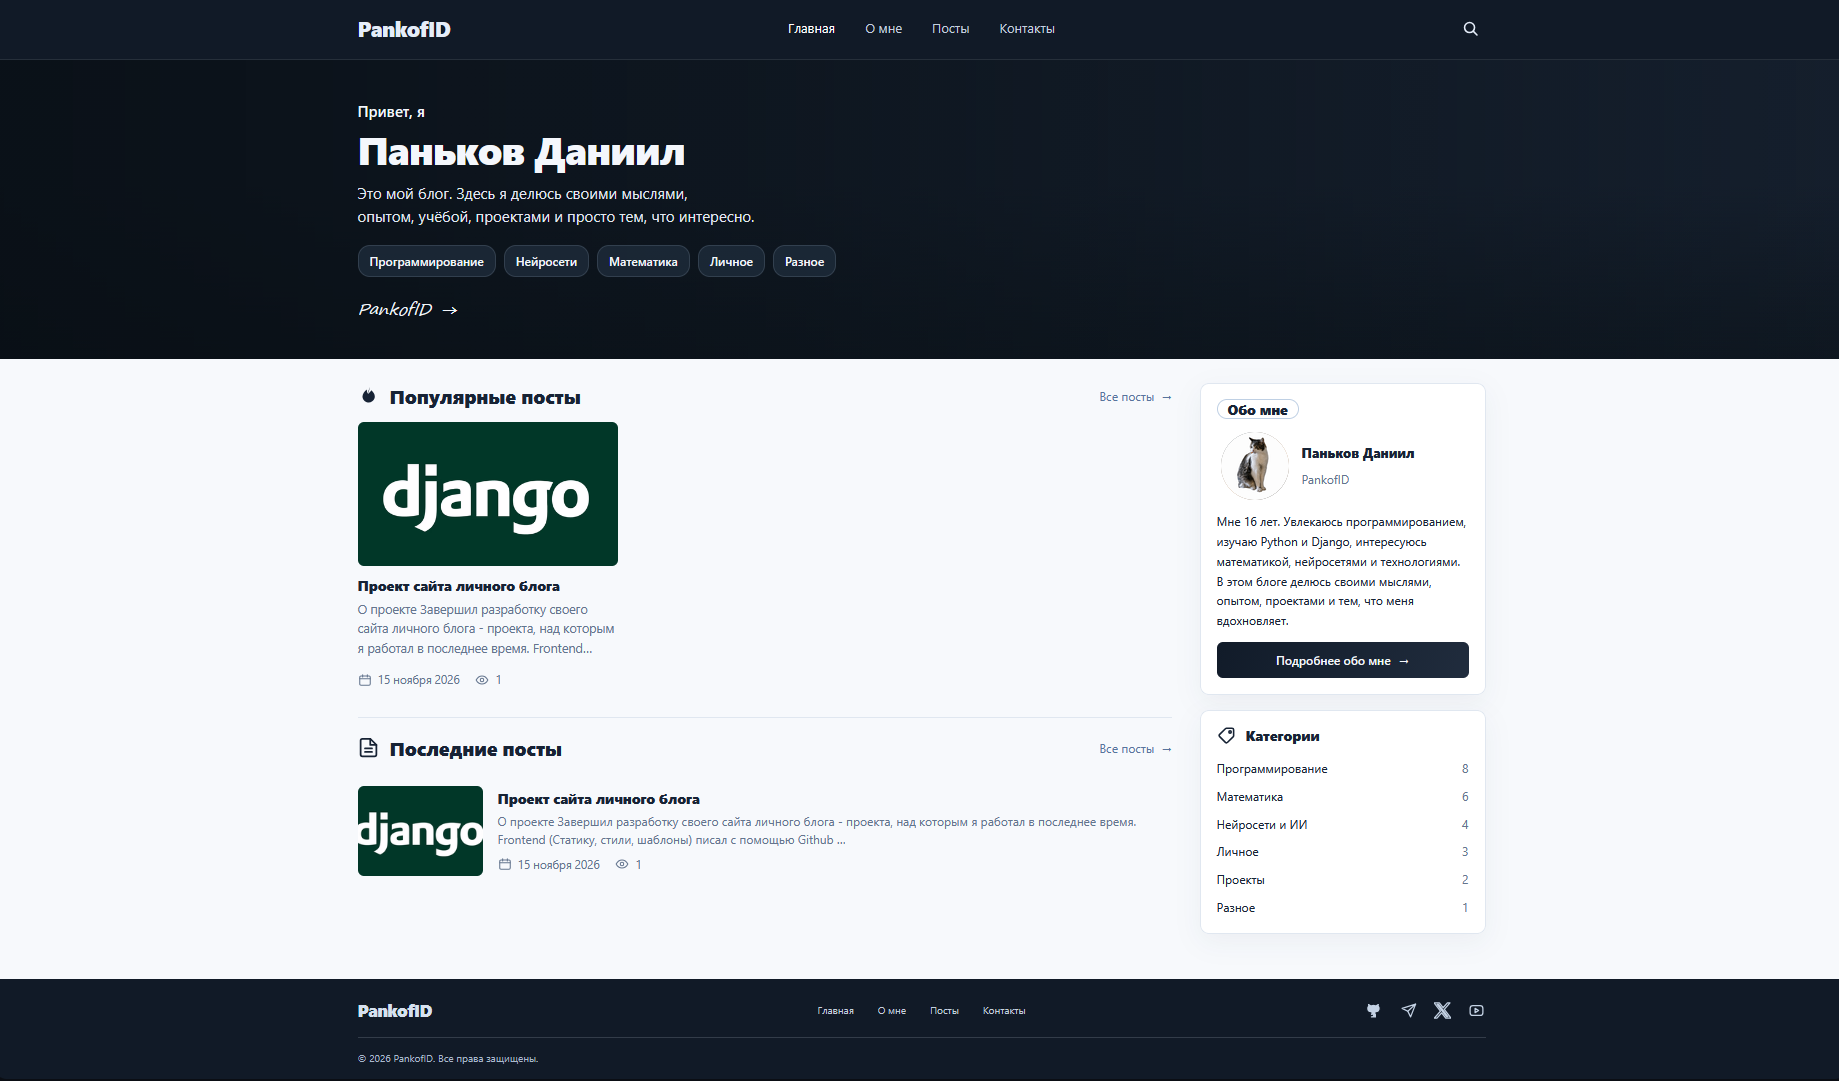
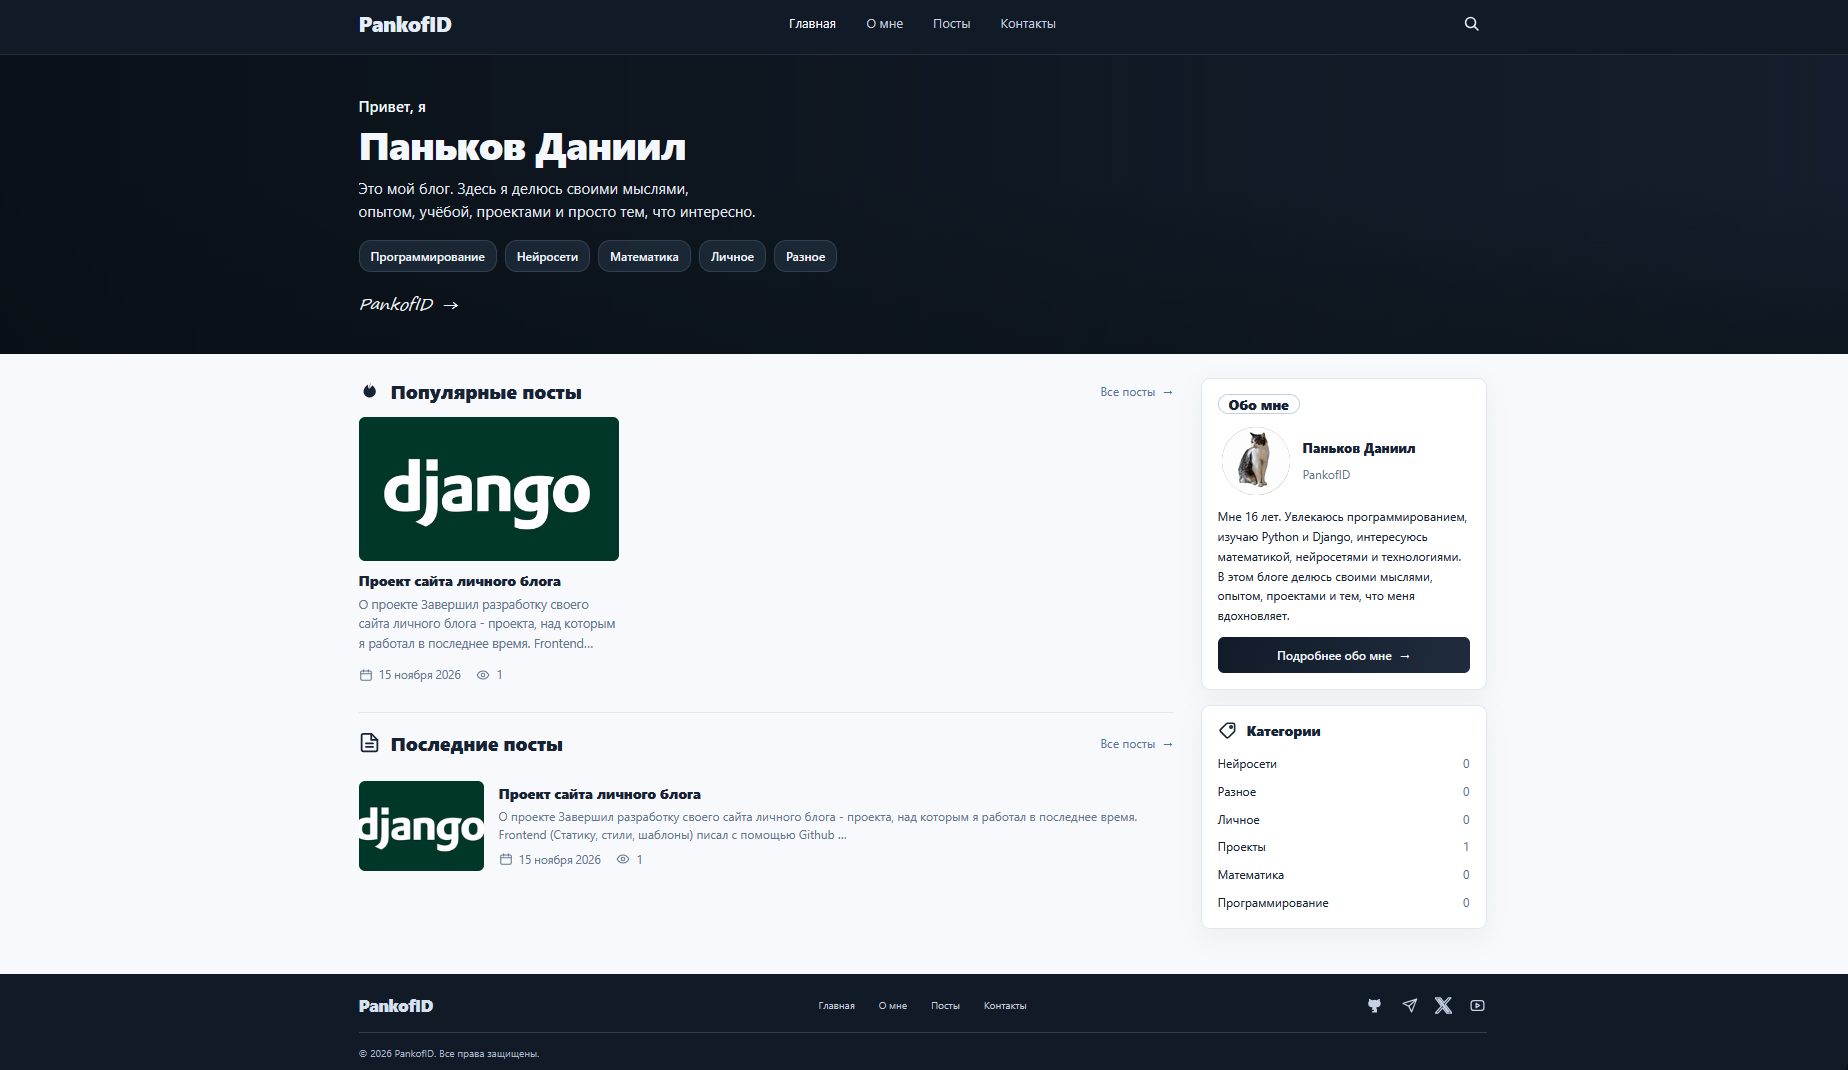
The main page has been changed: The number of posts with a specific category

diff --git a/main/templates/main/index.html b/main/templates/main/index.html
@@ -118,12 +118,9 @@
                 Категории
             </h2>
             <ul class="category-list">
-                <li><a href="{% url 'main:posts' %}?category=programmirovanie">Программирование</a></li>
-                <li><a href="{% url 'main:posts' %}?category=matematika">Математика</a></li>
-                <li><a href="{% url 'main:posts' %}?category=nejroseti">Нейросети и ИИ</a></li>
-                <li><a href="{% url 'main:posts' %}?category=lichnoe">Личное</a></li>
-                <li><a href="{% url 'main:posts' %}?category=proekty">Проекты</a></li>
-                <li><a href="{% url 'main:posts' %}?category=raznoe">Разное</a></li>
+                {% for category in categories %}
+                    <li><a href="{% url 'main:posts' %}?category={{ category.slug }}">{{ category.name }} <span>{{ category.post_count }}</span></a></li>
+                {% endfor %}
             </ul>
         </section>
     </aside>

diff --git a/main/views.py b/main/views.py
@@ -1,4 +1,4 @@
-from django.db.models import Q, F
+from django.db.models import Q, F, Count
 from django.shortcuts import render, get_object_or_404
 
 from main.models import Post, Category
@@ -9,10 +9,12 @@ from main.models import Post, Category
 def index(request):
     popular_posts = Post.objects.order_by('-views')[:3]
     recent_posts = Post.objects.order_by('-created_at')[:5]
+    categories = Category.objects.annotate(post_count=Count('posts'))
 
     context = {
         'popular_posts': popular_posts,
         'recent_posts': recent_posts,
+        'categories': categories,
     }
 
     return render(request, 'main/index.html', context)
